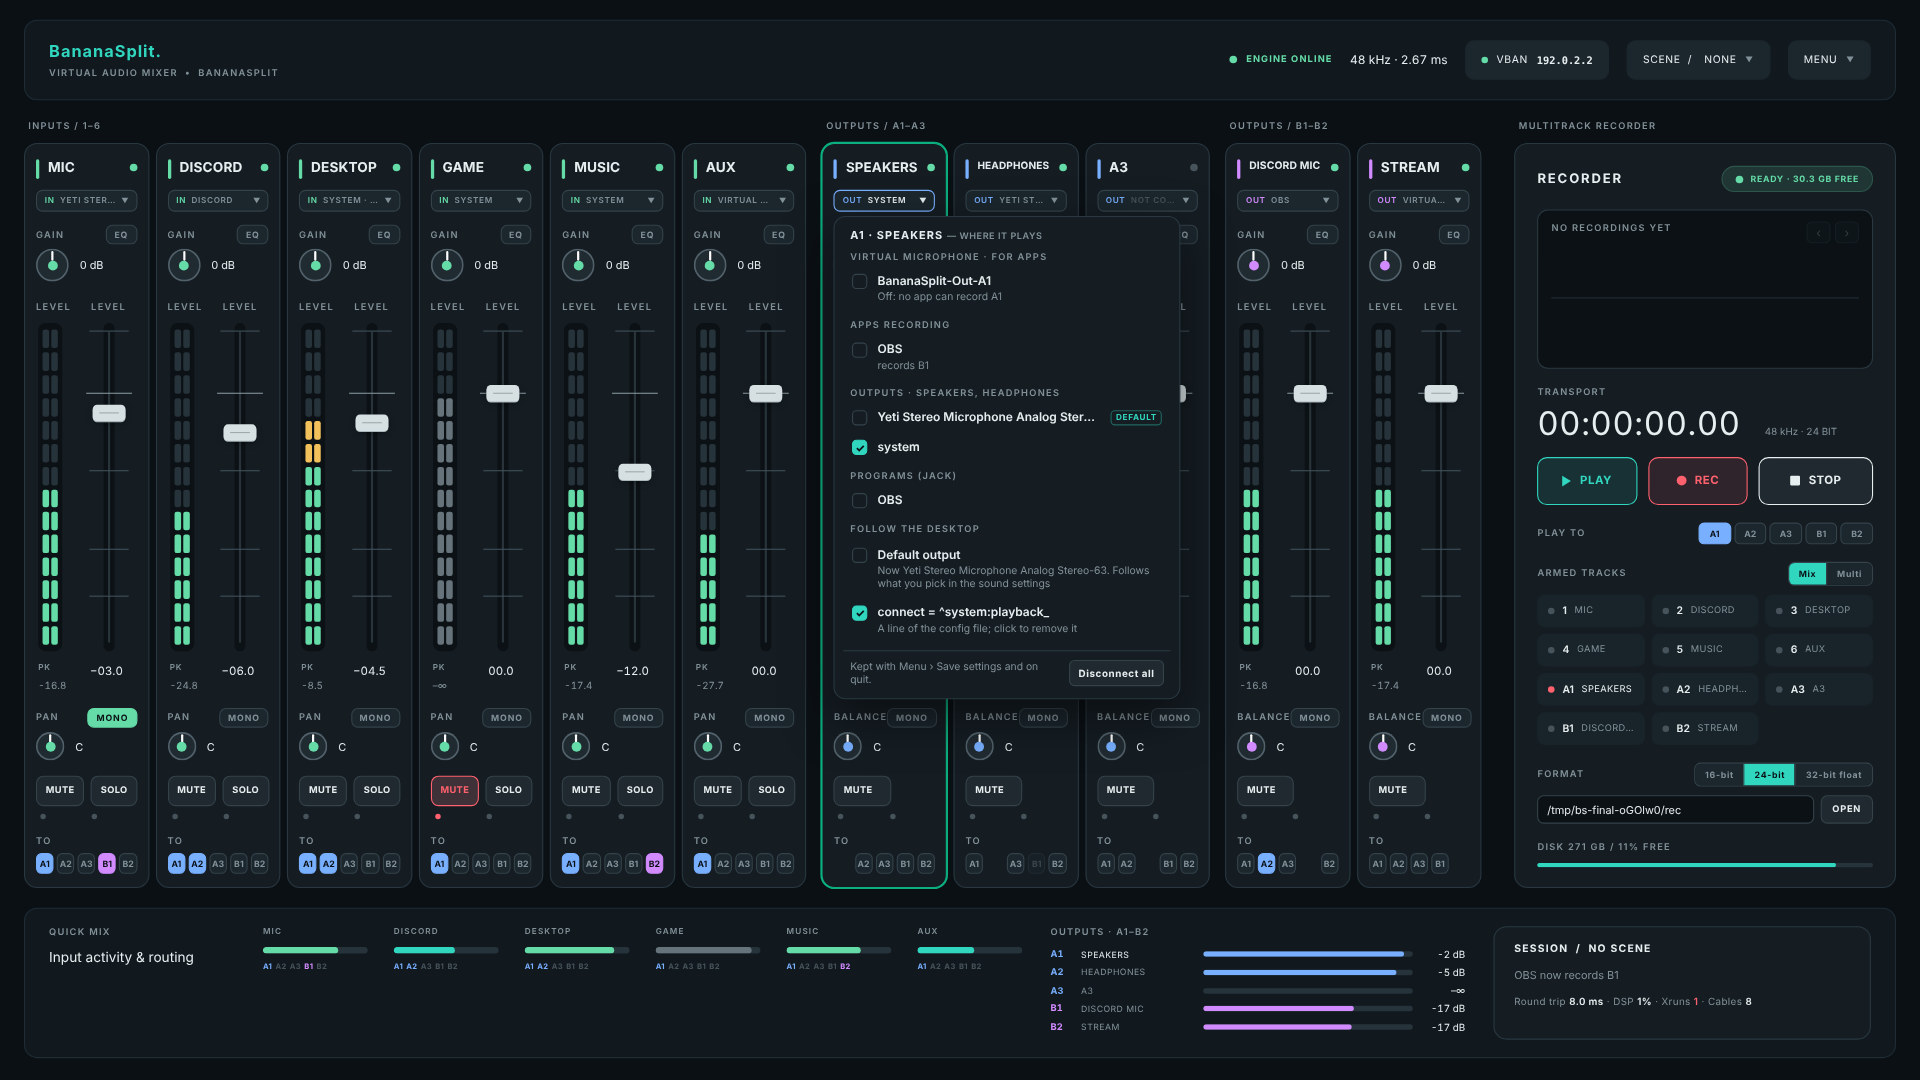
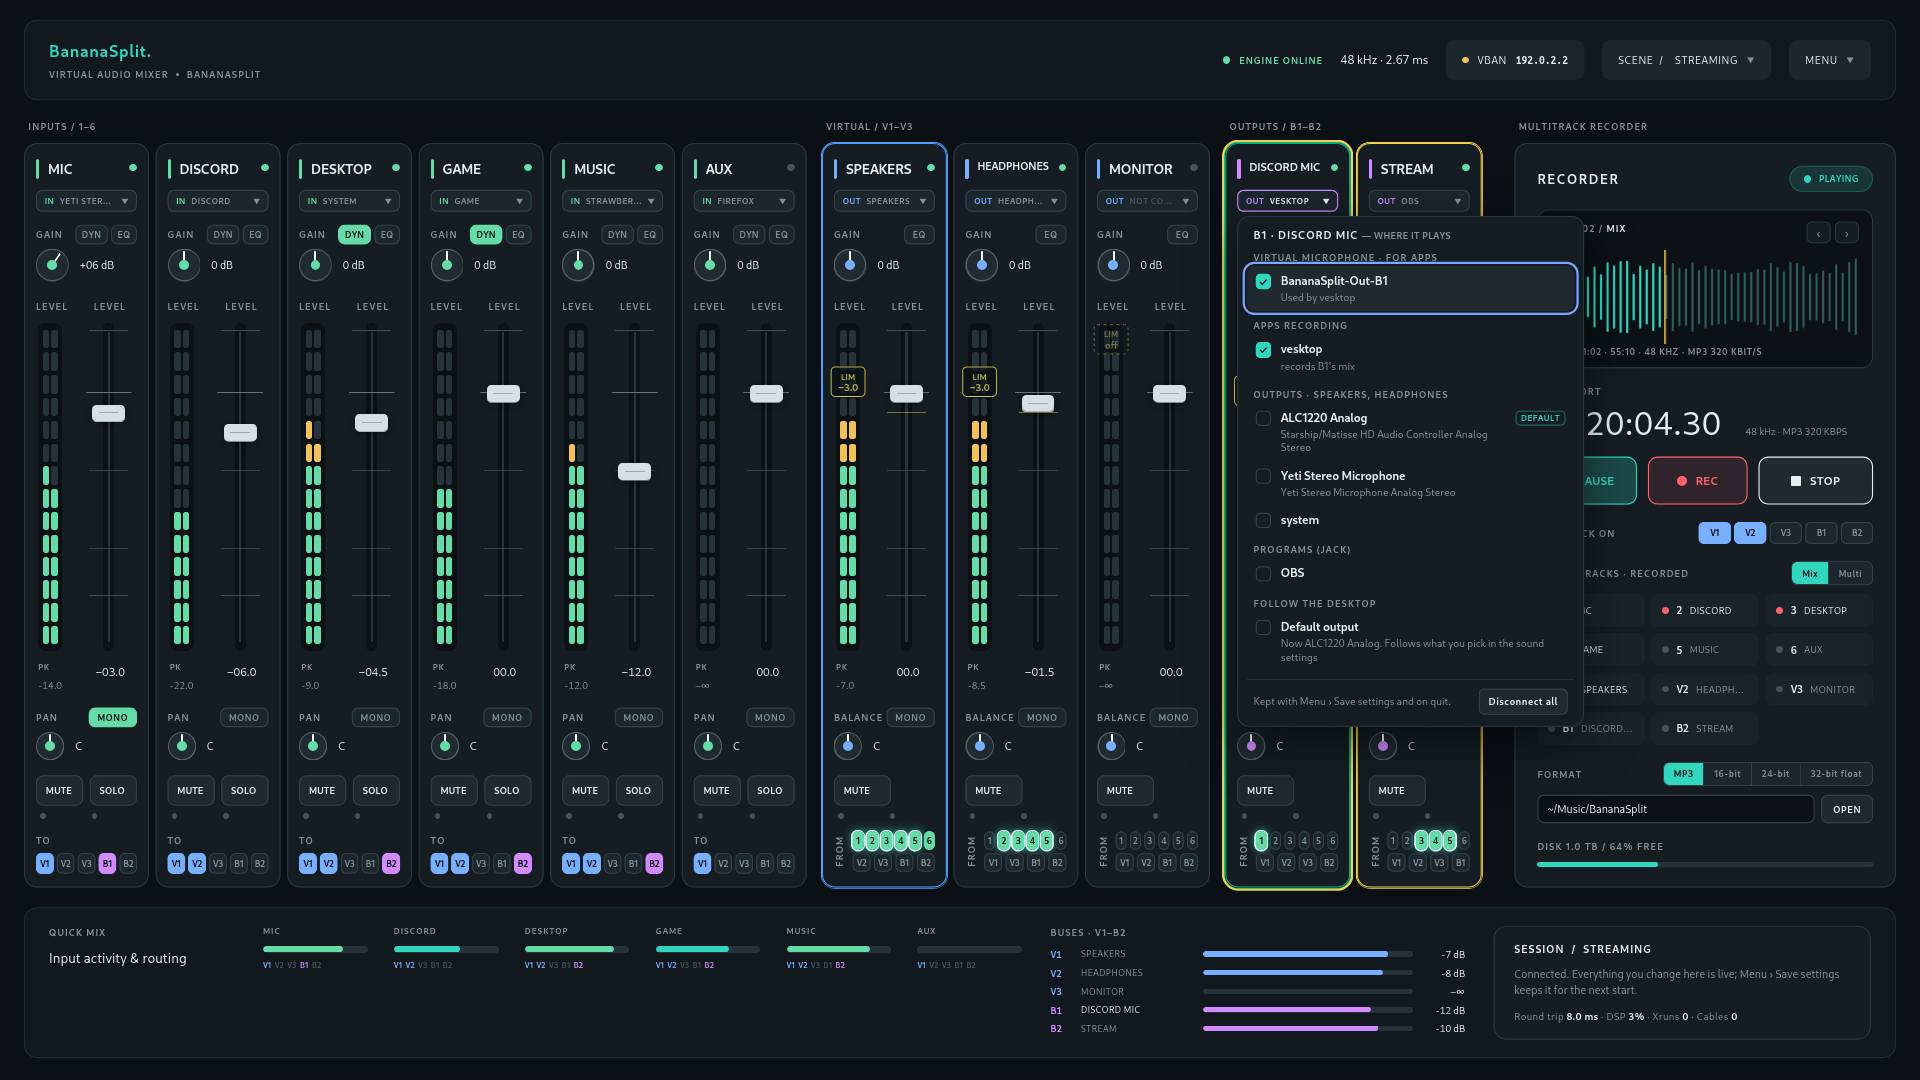
Update the README screenshots to the current window (#148)
Re-rendered the five pictures in docs/screenshots from the current gui.html:
V1-V3 names, bus limiters, listen/recording/streaming borders, FROM keys, DYN
buttons, a take in the player, VBAN on. gui/tests/pages/readme_shots.py makes
them again (headless Firefox, fake backend with made-up names and addresses).

diff --git a/gui/tests/pages/readme_shots.py b/gui/tests/pages/readme_shots.py
@@ -1,0 +1,268 @@
+#!/usr/bin/env python3
+"""Make the five screenshots of the README (docs/screenshots/) from the current gui.html.
+
+usage: readme_shots.py OUTDIR
+
+Same fake backend and headless Firefox as shots.py (no window opens), but a lived-in mixer: a Yeti and a game
+running, limits set, a take loaded in the player, VBAN on. Writes dark.png, light.png, menu-strip.png,
+menu-bus.png and vban.png at 1920x1080. Needs Firefox and geckodriver on the PATH. Names, addresses and
+take times are made up (192.0.2.x is the documentation range).
+"""
+import base64, copy, json, os, shutil, subprocess, sys, threading, time, urllib.request
+from http.server import BaseHTTPRequestHandler, ThreadingHTTPServer
+
+HERE = os.path.dirname(os.path.abspath(__file__))
+outdir = sys.argv[1]
+label, page_path, platform, attr = 'readme', f'{HERE}/../../gui.html', 'linux', True
+os.makedirs(outdir, exist_ok=True)
+PAGE = open(page_path, encoding='utf-8').read()
+canned = lambda n: json.load(open(f'{HERE}/canned/{n}.json'))
+
+# ---- the fake backend ----------------------------------------------------------------------
+STATE = canned('state')
+DEVICES = canned('devices')
+if platform == 'linux':
+    pass
+else:
+    DEVICES['cables'] = {'ok': True, 'none': False, 'why': ''}
+    if platform == 'macos':
+        DEVICES['strip'] = [x for x in DEVICES['strip'] if x['kind'] == 'device']
+        DEVICES['bus'] = [x for x in DEVICES['bus'] if x['kind'] == 'device']
+CABLES = {
+    'windows': {'splitter': {'found': True, 'cables': ['Splitter 1', 'Splitter 2', 'Splitter 3', 'Splitter 4', 'Splitter 5', 'Splitter 6'], 'missing': []},
+                'pairs': ['CABLE'], 'voicemeeter': ['Voicemeeter Input', 'Voicemeeter AUX Input'],
+                'output': {'name': 'Speakers (Realtek Audio)', 'cable': False}, 'input': {'name': 'CABLE Output', 'cable': True}},
+    'macos': {'cables': ['BlackHole 2ch', 'BlackHole 16ch'],
+              'output': {'name': 'MacBook Pro Speakers', 'cable': False}, 'input': {'name': 'MacBook Pro Microphone', 'cable': False}},
+}
+mode = {'welcome': False, 'nocables': False}
+# What the MIDI window shows (2.9.0): a controller, two bindings, a control just caught by Learn.
+MIDI = {'available': True, 'in': 'X-TOUCH MINI MIDI 1', 'out': 'X-TOUCH MINI MIDI 1', 'inOpen': True, 'outOpen': True,
+        'ins': ['X-TOUCH MINI MIDI 1', 'Midi Through Port-0'], 'outs': ['X-TOUCH MINI MIDI 1', 'Midi Through Port-0'],
+        'error': None, 'last': 'CC 1 = 74 · ch 11',
+        'learn': {'src': 'cc:11:1', 'name': 'CC 1 · ch 11', 'mode': None},
+        'bindings': [
+            {'src': 'cc:11:7', 'name': 'CC 7 · ch 11', 'target': '/strips/1/gain_db', 'label': 'Strip 1 (Mic): fader', 'mode': 'abs', 'takeover': True, 'feedback': True},
+            {'src': 'note:11:8', 'name': 'Note 8 · ch 11', 'target': '/strips/1/mute', 'label': 'Strip 1 (Mic): mute', 'mode': 'toggle', 'takeover': False, 'feedback': True}]}
+PATHS = [{'path': f'/strips/{n}/{k}', 'label': f'Strip {n}: {t}', 'kind': kind, 'value': 0} for n in range(1, 7)
+         for k, t, kind in [('gain_db', 'fader', 'number'), ('mute', 'mute', 'flag')]] + \
+        [{'path': f'/buses/{b}/{k}', 'label': f'{b}: {t}', 'kind': kind, 'value': 0} for b in ['V1', 'V2', 'V3', 'B1', 'B2']
+         for k, t, kind in [('gain_db', 'fader', 'number'), ('mute', 'mute', 'flag')]] + \
+        [{'path': '/recorder/recording', 'label': 'Recorder: recording', 'kind': 'flag', 'value': False}]
+
+
+TAKES = [{'key': f'2026-11-1{d}_{t}', 'n': i + 1, 'when': f'2026-11-1{d} {t.replace("-", ":")}', 'label': 'mix', 'tracks': ['mix'],
+          'secs': secs, 'sr': 48000, 'fmt': 'MP3 320 kbit/s', 'bytes': int(secs * 40000)}
+         for i, (d, t, secs) in enumerate([(2, '20-15-02', 1740.0), (3, '21-02-40', 3310.0), (4, '19-48-11', 2285.0)])]
+SHOW = {'theme': 'dark', 'rec_on': False}
+NAMES = [('Mic', 'Yeti Stereo Microphone Analog Stereo', 'Yeti Stereo Microphone'), ('Discord', 'Discord', 'Discord'),
+         ('Desktop', 'system', 'system'), ('Game', 'Game', 'Game'), ('Music', 'Strawberry', 'Strawberry'), ('Aux', 'Firefox', 'Firefox'),
+         ('Speakers', 'Starship/Matisse HD Audio Controller Analog Stereo', 'Speakers'), ('Headphones', 'Yeti Stereo Microphone Analog Stereo', 'Headphones'),
+         ('Monitor', '(nothing connected)', 'Not connected'), ('Discord Mic', '(nothing connected)', 'vesktop'), ('Stream', '(nothing connected)', 'obs')]
+LEVELS = [(-14.0, -15.5), (-22.0, -23.0), (-9.0, -10.5), (-18.0, -19.0), (-12.0, -12.5), (-60.0, -60.0),
+          (-7.0, -8.0), (-8.5, -9.0), (-60.0, -60.0), (-12.0, -13.0), (-10.0, -11.0)]
+GAIN = [-3.0, -6.0, -4.5, 0.0, -12.0, 0.0, 0.0, -1.5, 0.0, 0.0, 0.0]
+ROUTES = [0b01001, 0b00011, 0b10011, 0b10011, 0b10011, 0b00001]   # buses V1 V2 V3 B1 B2, one bit each
+LIMITS = [-3.0, -3.0, 12.0, -4.2, -5.3]                          # 12 = off
+
+# What the channel menus list: a Yeti and a webcam mic, a Discord and a Firefox playing, OBS and Vesktop recording.
+YETI, KIYO, ALC = 'Yeti Stereo Microphone Analog Stereo', 'Razer Kiyo Analog Stereo', 'Starship/Matisse HD Audio Controller Analog Stereo'
+IDS_ = ['1', '2', '3', '4', '5', '6', 'V1', 'V2', 'V3', 'B1', 'B2']
+CABLE = lambda i: f'BananaSplit-In{i + 1}-{NAMES[i][0]}' if i < 6 else f'BananaSplit-Out-{IDS_[i]}'
+DEVICES = {'cables': {'ok': True, 'none': False, 'why': ''}, 'pulse': True,
+    'strip': [{'client': YETI, 'label': 'Yeti Stereo Microphone', 'kind': 'device', 'default': True},
+              {'client': KIYO, 'label': 'Razer Kiyo', 'kind': 'device', 'default': False},
+              {'client': 'system', 'label': 'system', 'kind': 'device', 'default': False},
+              {'client': 'Firefox', 'label': 'Firefox', 'kind': 'app', 'default': False},
+              {'client': 'Yeti Stereo Microphone Analog Stereo-63', 'label': 'Yeti Stereo Microphone', 'kind': 'monitor', 'default': False},
+              {'client': 'Speakers', 'label': 'Speakers', 'kind': 'monitor', 'default': False}],
+    'bus': [{'client': ALC, 'label': 'ALC1220 Analog', 'kind': 'device', 'default': True},
+            {'client': YETI, 'label': 'Yeti Stereo Microphone', 'kind': 'device', 'default': False},
+            {'client': 'system', 'label': 'system', 'kind': 'device', 'default': False},
+            {'client': 'OBS', 'label': 'OBS', 'kind': 'app', 'default': False}],
+    'play': [{'id': 31, 'app': 'Discord', 'media': 'Playback', 'ch': 1, 'on': ''},
+             {'id': 32, 'app': 'Firefox', 'media': 'YouTube', 'ch': -1, 'on': 'Speakers'}],
+    'rec': [{'id': 41, 'app': 'vesktop', 'media': '', 'ch': 9, 'on': ''}],
+    'ch': [{'id': IDS_[i], 'cable': {'on': i in (1, 2, 3, 4, 9, 10), 'name': CABLE(i)},
+            'conn': {0: [YETI], 1: [], 6: [ALC], 7: [YETI], 10: ['OBS']}.get(i, []), 'connect': {0: ['@default']}.get(i, [])} for i in range(11)]}
+
+
+def lived_in(s):
+    s['sr'], s['cpu'], s['xruns'], s['rtt'], s['status'] = 48000, 3.2, 0, 8.0, ''
+    for i, c in enumerate(s['ch']):
+        c['name'], c['conn'], c['dev'] = NAMES[i]
+        c['m'] = list(LEVELS[i]); c['mi'] = [x - 1 for x in LEVELS[i]]
+        c['gain'] = GAIN[i]
+        if i < 6:
+            c['routes'] = ROUTES[i]; c['apps'] = []
+            c['link'] = i in (0, 1, 2, 3)
+            if i == 0: c['trim'], c['mono'] = 6.0, True
+        else:
+            b = i - 6
+            c['from'] = sum(1 << k for k in range(6) if ROUTES[k] >> b & 1); c['via'] = 0
+            c['limit'] = LIMITS[b]; c['limGr'] = 2.4 if b == 3 else 0.0
+            c['cable'] = b >= 3; c['apps'] = ['vesktop'] if b == 3 else ['obs'] if b == 4 else []
+    s['ch'][2]['dyn'].update({'comp': True, 'cgr': 3.1}); s['ch'][3]['dyn'].update({'gate': True})
+    s['rec'].update({'format': 'mp3', 'kbps': 320, 'mode': 'mix', 'folder': '~/Music/BananaSplit', 'path': '/home/you/Music/BananaSplit'})
+    s['disk'] = {'total': 1000204886016, 'free': 640000000000}
+    s['takes'] = {'rev': 1, 'count': len(TAKES), 'newest': TAKES[-1]['key']}
+    s['player'] = {'state': 'playing', 'take': TAKES[1]['key'], 'pos': 1204.3, 'dur': TAKES[1]['secs'], 'underruns': 0, 'error': None}
+    s['playTo'] = 0b00011
+    s['scene'], s['scenes'] = 'Streaming', ['Streaming', 'Podcast', 'Quiet night']
+    s['app']['theme'] = SHOW['theme']; s['app']['listen'] = NAMES[6][1]
+    s['vban'].update({'on': True, 'ips': [{'if': 'eth0', 'ip': '192.0.2.2', 'bc': '192.0.2.255'}], 'listening': 6980, 'seen': []})
+    s['vban']['out'][0].update({'on': True, 'name': 'Linux', 'to': '192.0.2.20', 'src': 10, 'state': 'ok', 'text': 'to 192.0.2.20:6980 · 48 kHz · stereo · 16-bit', 'packets': 5200})
+    s['update']['current'] = '2.9.0'
+
+
+def state_json():
+    s = copy.deepcopy(STATE)
+    lived_in(s)
+    s['app']['platform'] = platform
+    if platform != 'linux':
+        s['app']['welcome'] = mode['welcome']
+    s['midi'] = MIDI
+    return json.dumps(s, separators=(',', ':'))
+
+
+def devices_json():
+    d = copy.deepcopy(DEVICES)
+    if mode['nocables']:
+        d['cables'] = {'ok': False, 'none': True, 'why': 'No virtual cables are installed'}
+    return json.dumps(d, separators=(',', ':'))
+
+
+class H(BaseHTTPRequestHandler):
+    protocol_version = 'HTTP/1.0'
+
+    def log_message(self, *a): pass
+
+    def send(self, code, ctype, body):
+        b = body.encode() if isinstance(body, str) else body
+        self.send_response(code)
+        self.send_header('Content-Type', ctype)
+        self.send_header('Content-Length', str(len(b)))
+        self.send_header('Cache-Control', 'no-store')
+        self.end_headers()
+        self.wfile.write(b)
+
+    def do_POST(self):
+        n = int(self.headers.get('Content-Length') or 0)
+        self.rfile.read(n)
+        self.send(200, 'text/plain', 'ok')
+
+    def do_GET(self):
+        p = self.path.split('?')[0]
+        if p == '/':
+            attrs = ' data-theme="dark" data-zoom="1"' + (f' data-platform="{platform}"' if attr else '')
+            html = PAGE.replace('<html lang="en">', f'<html lang="en"{attrs}>', 1)
+            self.send(200, 'text/html; charset=utf-8', html)
+        elif p == '/api/events':
+            self.send_response(200)
+            self.send_header('Content-Type', 'text/event-stream')
+            self.send_header('Cache-Control', 'no-store')
+            self.end_headers()
+            try:
+                while True:
+                    self.wfile.write(f'data: {state_json()}\n\n'.encode())
+                    self.wfile.flush()
+                    time.sleep(0.4)
+            except OSError:
+                pass
+        elif p == '/api/state': self.send(200, 'application/json', state_json())
+        elif p == '/api/devices': self.send(200, 'application/json', devices_json())
+        elif p == '/api/takes': self.send(200, 'application/json', json.dumps({'rev': 1, 'takes': TAKES}))
+        elif p == '/api/wave':
+            import random; rnd = random.Random(7); n = int(self.path.split('n=')[-1].split('&')[0])
+            self.send(200, 'application/json', json.dumps({'key': TAKES[1]['key'], 'n': n, 'secs': TAKES[1]['secs'],
+                      'peaks': [int(min(100, 18 + 55 * abs(__import__('math').sin(i / 9.0)) * rnd.random() + rnd.random() * 20)) for i in range(n)]}))
+        elif p == '/api/update': self.send(200, 'application/json', open(f'{HERE}/canned/update.json').read())
+        elif p == '/api/cables' and platform in CABLES: self.send(200, 'application/json', json.dumps(CABLES[platform]))
+        elif p == '/api/ping': self.send(200, 'text/plain', 'bananasplit-gui')
+        elif p == '/api/v1/paths': self.send(200, 'application/json', json.dumps({'api': 1, 'paths': PATHS}))
+        else: self.send(404, 'text/plain', 'not found')
+
+
+srv = ThreadingHTTPServer(('127.0.0.1', 0), H)
+srv.daemon_threads = True
+PORT = srv.server_address[1]
+threading.Thread(target=srv.serve_forever, daemon=True).start()
+
+# ---- WebDriver -----------------------------------------------------------------------------
+GD = 4470 + (os.getpid() % 200)
+gd = subprocess.Popen([shutil.which('geckodriver') or '/snap/bin/geckodriver', '--port', str(GD)], stdout=subprocess.DEVNULL, stderr=subprocess.DEVNULL)
+
+
+def call(method, path, body=None):
+    req = urllib.request.Request(f'http://127.0.0.1:{GD}{path}', data=None if body is None else json.dumps(body).encode(),
+                                 method=method, headers={'Content-Type': 'application/json'})
+    with urllib.request.urlopen(req, timeout=60) as r:
+        return json.load(r)['value']
+
+
+for _ in range(50):
+    try:
+        urllib.request.urlopen(f'http://127.0.0.1:{GD}/status', timeout=2).read()
+        break
+    except OSError:
+        time.sleep(0.2)
+sid = call('POST', '/session', {'capabilities': {'alwaysMatch': {'browserName': 'firefox', 'moz:firefoxOptions': {'args': ['-headless']}}}})['sessionId']
+S = f'/session/{sid}'
+call('POST', f'{S}/window/rect', {'width': 1920, 'height': 1166})
+
+
+def js(script, *args):
+    return call('POST', f'{S}/execute/sync', {'script': script, 'args': list(args)})
+
+
+def wait(cond, what, secs=10):
+    t0 = time.time()
+    while time.time() - t0 < secs:
+        try:
+            if js('return !!(' + cond + ')'): return
+        except Exception:
+            pass
+        time.sleep(0.1)
+    raise SystemExit(f'[{label}/{platform}] timed out waiting for {what}: {cond}')
+
+
+def load(**m):
+    mode.update({'welcome': False, 'nocables': False}); mode.update(m)
+    call('POST', f'{S}/url', {'url': f'http://127.0.0.1:{PORT}/'})
+    wait('document.body && /firefox/i.test(document.body.innerText)', 'the first state')
+    time.sleep(0.6)
+
+
+def snap(name, selector=None):
+    time.sleep(0.5)
+    open(f'{outdir}/{name}.png', 'wb').write(base64.b64decode(call('GET', f'{S}/screenshot')))
+    text = js('const e = arguments[0] ? document.querySelector(arguments[0]) : document.body; return e ? e.innerText : "(none)"', selector)
+    open(f'{outdir}/{name}.txt', 'w', encoding='utf-8').write(text)
+
+
+
+
+def shot(name):
+    time.sleep(0.8)
+    open(f'{outdir}/{name}.png', 'wb').write(base64.b64decode(call('GET', f'{S}/screenshot')))
+
+
+def go(theme='dark'):
+    SHOW['theme'] = theme
+    call('POST', f'{S}/url', {'url': f'http://127.0.0.1:{PORT}/'})
+    wait('document.body && /ENGINE|engine/.test(document.body.innerText)', 'the first state')
+    js('const st = document.createElement("style"); st.textContent = ".pk span { contain: layout style !important; width: 40px; }"; document.head.append(st)')
+    time.sleep(1.5)  # the meters' peak hold fills in from the levels
+
+
+try:
+    go('dark'); shot('dark')
+    go('light'); shot('light')
+    go('dark'); js('toggleChanMenu(1)'); wait('document.querySelector("#cmenu .ci")', 'the strip menu'); shot('menu-strip')
+    go('dark'); js('toggleChanMenu(9)'); wait('document.querySelector("#cmenu .ci")', 'the bus menu'); shot('menu-bus')
+    go('dark'); js('document.getElementById("vbanbtn").click()'); time.sleep(0.6); shot('vban')
+    print(f'{len(os.listdir(outdir))} screenshots -> {outdir}')
+finally:
+    try: call('DELETE', S)
+    except Exception: pass
+    gd.terminate()

diff --git a/gui/tests/pages/README.md b/gui/tests/pages/README.md
@@ -27,3 +27,10 @@ pages; a difference you meant to make shows up as exactly that.
 
 Used for step 4 of the GUI-layer work (one `gui.html`): the merged page matched the
 three old pages in all 26 scenarios.
+
+## The README screenshots
+
+`readme_shots.py OUTDIR` renders the five pictures in `docs/screenshots/` (dark, light, a strip menu, a bus
+menu, VBAN) from the current `gui.html` with the same fake backend, but a lived-in mixer (limits, rings, a take in
+the player). Run it and copy the PNGs over when the page changes visibly. The names, addresses and take times
+in it are made up.
